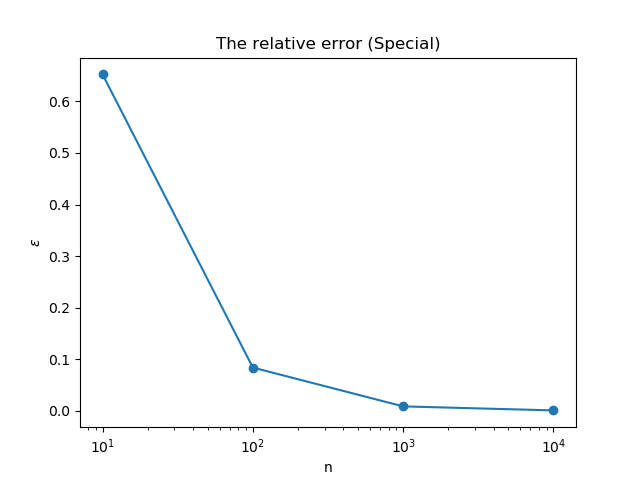
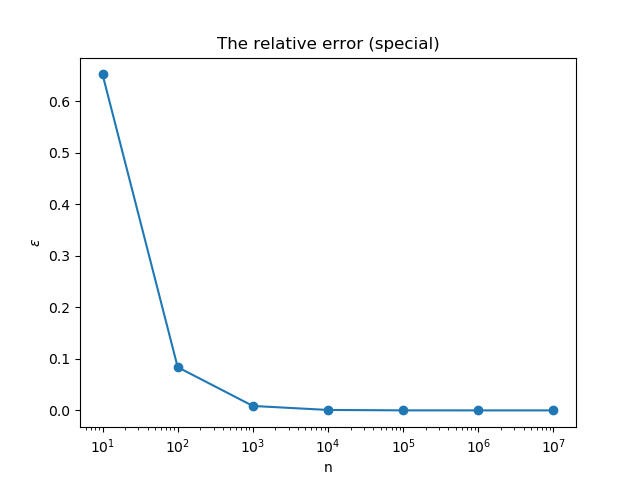
result error

diff --git a/Project1/oppgave_1b_sketch_ANNA.py b/Project1/oppgave_1b_sketch_ANNA.py
@@ -239,7 +239,7 @@ if __name__ == "__main__":
     # Values for the relative error exercise
     # MUST REMEMBER TO RUN WITH PLOT (SAVE) FOR [1e1, 1e2, 1e3, 1e4, 1e5, 1e6, 1e7]
     # FOR EITHER THOMAS OR SPECIAL TO GET PLOT AND TABLE VALUES
-    N_values = [1e1, 1e2, 1e3, 1e4]
+    N_values = [1e1, 1e2, 1e3, 1e4, 1e5, 1e6, 1e7]
     epsilon  = np.zeros(len(N_values))
 
 
